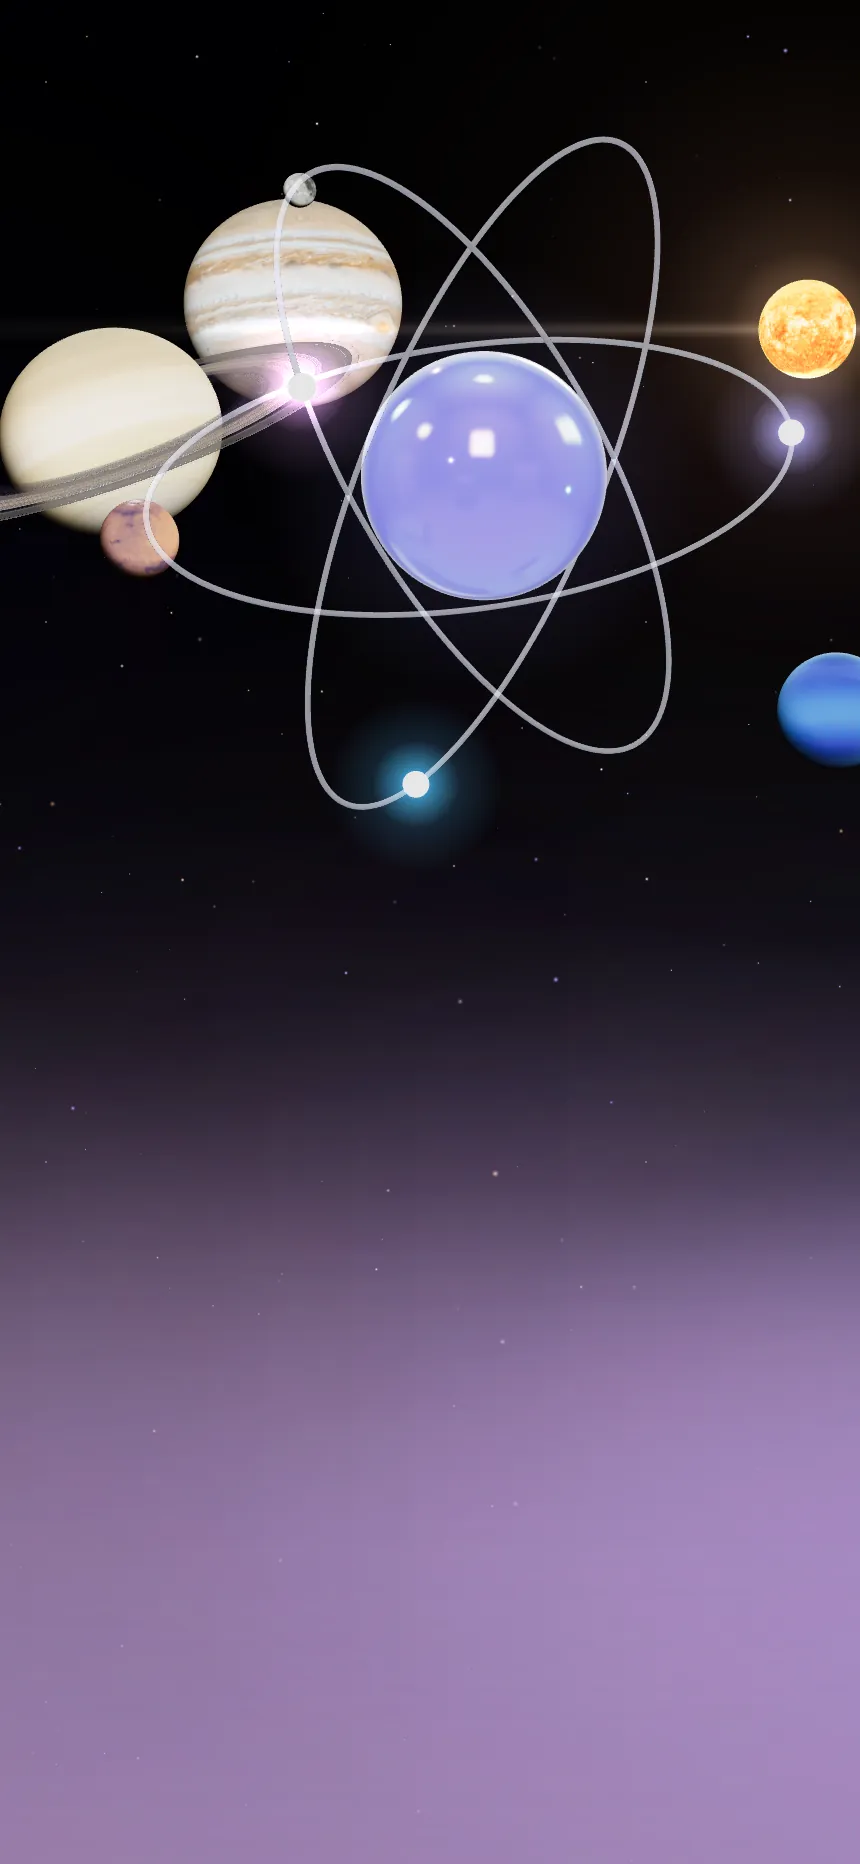
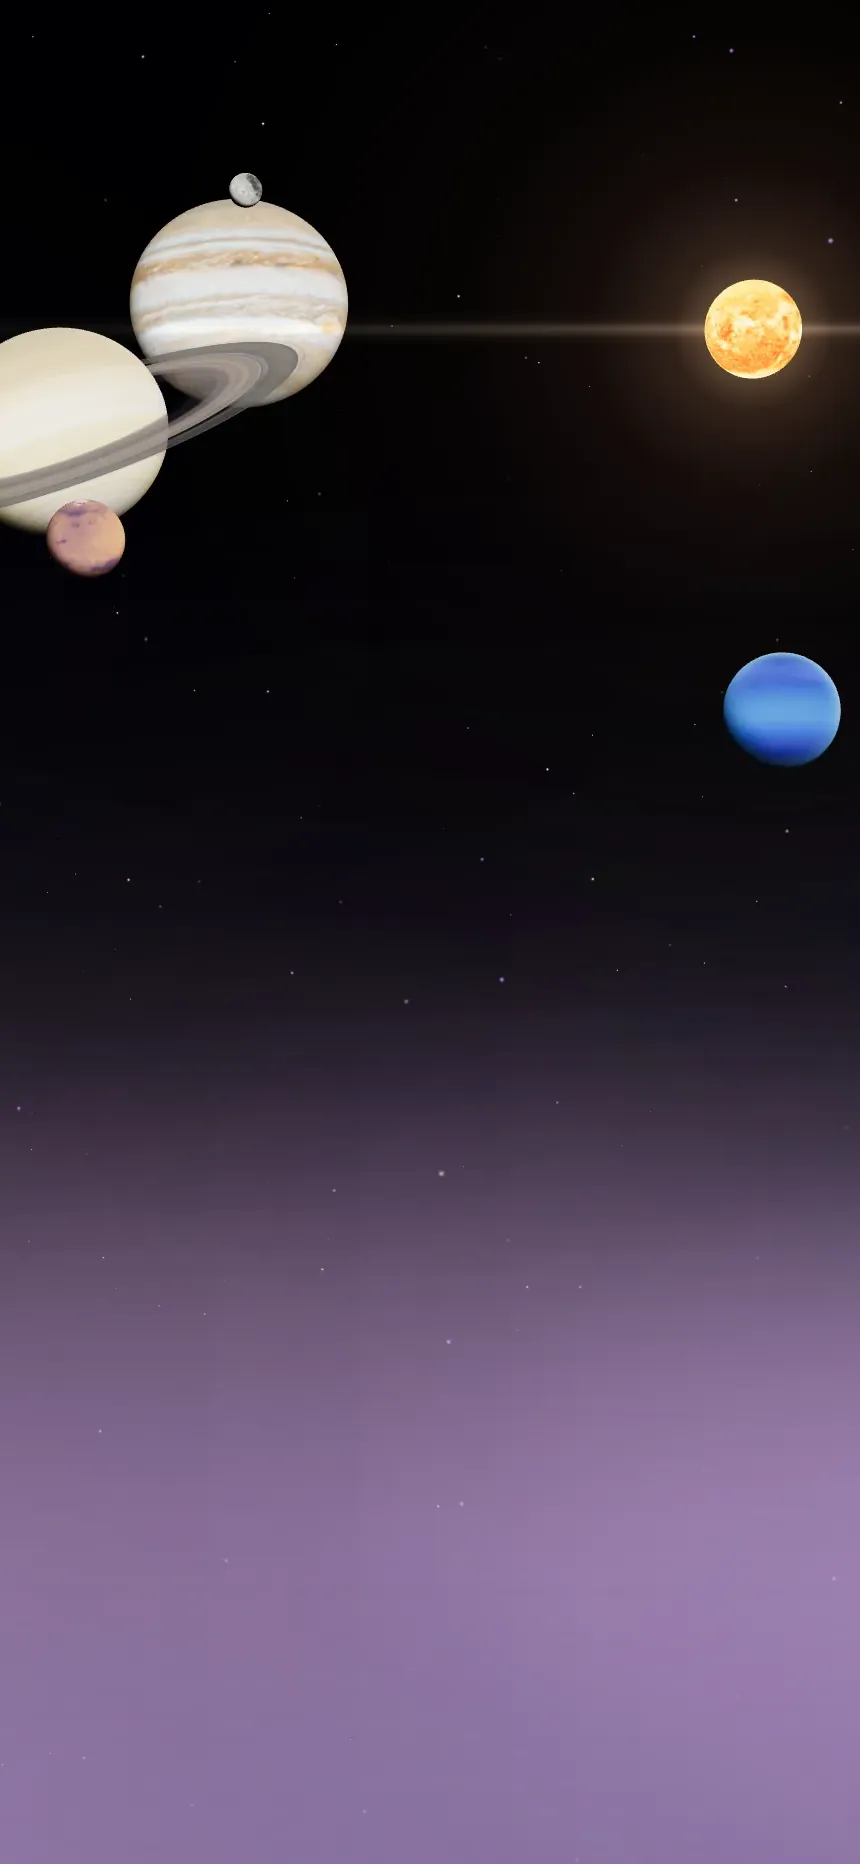
feat: calm 3D hero under reduced motion, SVG atom for weak devices
- Reduced motion with working WebGL: the real 3D hero runs in calm mode
  (half speed; no fly-in, pointer lean, scroll camera or meteors). The
  Earth stays a still under reduced motion.
- Weak devices (lowfx) and no WebGL: the hero poster is now captured
  without the atom (?poster=hero&atom=0) and a lightweight SVG atom
  (SMIL, no WebGL, no blur) orbits on top of it at the exact spot the 3D
  atom was, at half speed with reduced motion. It pauses while hidden.

Changed region(s): [[0.0, 0.0622, 1.0, 0.4667], [0.8465, 0.3423, 1.0, 0.4356], [0.6349, 0.0622, 0.7558, 0.0933]]

diff --git a/src/components/home/PosterAtom.tsx b/src/components/home/PosterAtom.tsx
@@ -1,0 +1,112 @@
+'use client';
+
+import { useEffect, useRef, useState } from 'react';
+
+/**
+ * The Atomvs atom drawn over the hero's static poster (the posters are captured without it, with
+ * `?poster=hero&atom=0`). This is what weak devices (html.lowfx) and browsers without WebGL see, and
+ * the stand-in while the 3D scene starts. Plain SVG animated with SMIL: no WebGL, no blur filters,
+ * a few small shapes to repaint. Electrons orbit and the atom turns slowly; with reduced motion both
+ * run at half speed. It pauses while hidden behind the running 3D scene or scrolled off screen.
+ *
+ * Units: 100 = the orbit's long radius. Proportions follow the 3D atom in SpaceScene.tsx
+ * (orbit 2.6 × 0.95, nucleus 0.9, electron 0.1, orbits turned 0°, 60°, 120°).
+ */
+
+const ORBITS = [
+  { angle: 0, color: '#9ea3ff', period: 7 },
+  { angle: 60, color: '#47c5fb', period: 5.6 },
+  { angle: 120, color: '#f0abfc', period: 4.7 },
+];
+const RY = 36.5;
+const ORBIT_PATH = `M 100 0 A 100 ${RY} 0 1 1 -100 0 A 100 ${RY} 0 1 1 100 0`;
+
+export function PosterAtom() {
+  const svg = useRef<SVGSVGElement>(null);
+  // Animations mount after hydration, at the speed this viewer prefers.
+  const [speed, setSpeed] = useState<number | null>(null);
+
+  useEffect(() => {
+    const query = window.matchMedia('(prefers-reduced-motion: reduce)');
+    const update = () => setSpeed(query.matches ? 0.5 : 1);
+    update();
+    query.addEventListener('change', update);
+    return () => query.removeEventListener('change', update);
+  }, []);
+
+  // Pause while the live 3D scene covers the poster (.space-hero.is-live) or the hero is off screen.
+  useEffect(() => {
+    const el = svg.current;
+    const hero = el?.closest('.space-hero');
+    if (!el || !hero || speed === null) return;
+    let onScreen = true;
+    const sync = () => {
+      const run = onScreen && !hero.classList.contains('is-live');
+      if (run) el.unpauseAnimations();
+      else el.pauseAnimations();
+    };
+    const io = new IntersectionObserver(([e]) => {
+      onScreen = e.isIntersecting;
+      sync();
+    });
+    const mo = new MutationObserver(sync);
+    io.observe(el);
+    mo.observe(hero, { attributes: true, attributeFilter: ['class'] });
+    sync();
+    return () => {
+      io.disconnect();
+      mo.disconnect();
+    };
+  }, [speed]);
+
+  const s = speed ?? 1;
+  return (
+    <svg ref={svg} className="poster-atom" viewBox="-125 -125 250 250" aria-hidden="true">
+      <defs>
+        <radialGradient id="pa-nucleus" cx="50%" cy="50%" r="50%" fx="36%" fy="30%">
+          <stop offset="0" stopColor="#ffffff" stopOpacity=".95" />
+          <stop offset=".3" stopColor="#d3d4ff" />
+          <stop offset=".75" stopColor="#959bff" />
+          <stop offset="1" stopColor="#7278ea" />
+        </radialGradient>
+        <radialGradient id="pa-glow">
+          <stop offset="0" stopColor="#8b91ff" stopOpacity=".55" />
+          <stop offset="1" stopColor="#8b91ff" stopOpacity="0" />
+        </radialGradient>
+        {ORBITS.map((o) => (
+          <radialGradient key={o.color} id={`pa-e-${o.angle}`}>
+            <stop offset="0" stopColor="#ffffff" />
+            <stop offset=".3" stopColor={o.color} stopOpacity=".8" />
+            <stop offset="1" stopColor={o.color} stopOpacity="0" />
+          </radialGradient>
+        ))}
+      </defs>
+
+      <circle r="78" fill="url(#pa-glow)">
+        {speed !== null && <animate attributeName="opacity" values=".75;1;.75" dur={`${3 / s}s`} repeatCount="indefinite" />}
+      </circle>
+
+      <g>
+        {speed !== null && (
+          <animateTransform key={`turn-${s}`} attributeName="transform" type="rotate" from="0" to="360" dur={`${80 / s}s`} repeatCount="indefinite" />
+        )}
+        {ORBITS.map((o, i) => (
+          <g key={o.angle} transform={`rotate(${o.angle})`}>
+            <path d={ORBIT_PATH} fill="none" stroke="rgba(212,214,255,.62)" strokeWidth="1.8" />
+            {/* animateMotion places the electron on the orbit; before it starts it sits behind the nucleus. */}
+            <g>
+              <circle r="12" fill={`url(#pa-e-${o.angle})`} />
+              <circle r="3.8" fill="#fff" />
+              {speed !== null && (
+                <animateMotion key={`e-${s}`} path={ORBIT_PATH} dur={`${o.period / s}s`} begin={`-${(o.period / s) * (i / 3)}s`} repeatCount="indefinite" />
+              )}
+            </g>
+          </g>
+        ))}
+      </g>
+
+      <circle r="34.6" fill="url(#pa-nucleus)" />
+      <ellipse cx="-11" cy="-14" rx="9" ry="5.5" fill="#fff" opacity=".55" transform="rotate(-30 -11 -14)" />
+    </svg>
+  );
+}

diff --git a/src/components/home/SpaceScene.tsx b/src/components/home/SpaceScene.tsx
@@ -29,11 +29,11 @@ import { loadThree, threeAllowed } from './threeLoader';
  *
  * - three.js loads on demand, after first paint; the canvas fades in once ready.
  * - Renders only while on screen and the tab is visible; pixel ratio capped at 1.5.
- * - Weak devices (html.lowfx), prefers-reduced-motion at load, no WebGL and failures show the
- *   static poster (three.js is not even downloaded then, see threeLoader.ts); a speed guard
- *   degrades, then falls back to it. `?fx=full` disables the guard for testing.
- * - Reduced motion switched on while the scene runs: gentle motion only (orbits, twinkle, slow
- *   spin); no fly-in, camera movement or meteors.
+ * - Weak devices (html.lowfx), no WebGL and failures show the static poster with a lightweight SVG
+ *   atom on it (PosterAtom.tsx; three.js is not even downloaded then, see threeLoader.ts); a speed
+ *   guard degrades, then falls back to it. `?fx=full` disables the guard for testing.
+ * - prefers-reduced-motion: calm mode. The atom turns, the electrons orbit, the planets drift, all at
+ *   half speed; no fly-in, pointer lean, scroll camera or meteors.
  * - WebGL context lost (GPU reset, out of video memory): the poster comes back; if the browser
  *   restores the context, the scene resumes.
  */
@@ -484,10 +484,12 @@ export function SpaceScene() {
 
       // ── Motion ────────────────────────────────────────────────────────────
       const reduceQuery = window.matchMedia('(prefers-reduced-motion: reduce)');
-      // posterMode draws one still frame. Reduced motion keeps the scene alive but gentle: no
-      // fly-in, no camera movement on scroll or pointer, no meteors (vestibular triggers removed).
+      // posterMode draws one still frame. Reduced motion runs the scene in calm mode: no fly-in, no
+      // camera movement on scroll or pointer, no meteors (vestibular triggers removed), and the rest
+      // (atom turn, electrons, planets, twinkle, fog) at half speed.
       const reduced = posterMode;
       let gentle = reduceQuery.matches;
+      const CALM = 0.5;
       const forceFull = new URLSearchParams(window.location.search).get('fx') === 'full';
       let time = 0;
       let stopped = false;
@@ -500,7 +502,7 @@ export function SpaceScene() {
       const target = new THREE.Vector3();
 
       const draw = (t: number, live: boolean) => {
-        const dt = live ? 1 / 60 : 0;
+        const dt = live ? (gentle ? CALM : 1) / 60 : 0;
         const scroll = live && !gentle ? Math.min(1, window.scrollY / window.innerHeight) : 0;
         if (live && !gentle) {
           lean.x += (pointer.x - lean.x) * 0.04;
@@ -614,7 +616,7 @@ export function SpaceScene() {
         raf = 0;
         if (disposed || stopped || contextLost || reduced || !onScreen || document.hidden) return;
         const frameMs = now - last;
-        time += Math.min(frameMs, 50) / 1000;
+        time += (Math.min(frameMs, 50) / 1000) * (gentle ? CALM : 1);
         last = now;
         draw(time, true);
         if (!forceFull && perf.level < 2 && now - perf.started > 3000) {
@@ -800,8 +802,15 @@ export function SpaceScene() {
         if (reduced) draw(STILL_T, false);
       })();
       if (posterMode) {
+        // `&atom=0` leaves the atom out: the posters carry a lightweight SVG atom on top instead
+        // (PosterAtom.tsx), placed where this frame would draw it (data-poster-atom).
+        if (new URLSearchParams(window.location.search).get('atom') === '0') atom.visible = false;
         void upgraded.then(() => {
           draw(STILL_T, false);
+          const c = new THREE.Vector3().setFromMatrixPosition(atom.matrixWorld).project(camera);
+          const edge = new THREE.Vector3(RX * atom.scale.x, 0, 0).add(atom.position).project(camera);
+          html.dataset.posterAtom = JSON.stringify({ x: (c.x + 1) * 50, y: (1 - c.y) * 50, rx: (edge.x - c.x) * 50 });
+          html.dataset.posterPng = canvas.toDataURL('image/png');
           html.dataset.posterReady = '1';
         });
       }

diff --git a/src/app/home.css b/src/app/home.css
@@ -25,11 +25,24 @@
 /* Poster: a captured still of the scene (public/posters). It fades in by itself after ~3 s, so
    a slow or failing start never leaves the hero black; a running scene (.is-live) hides it. */
 .space-poster {
-  position: absolute; inset: 0; z-index: -2; pointer-events: none; opacity: 0;
-  background: url(/posters/hero-desktop.webp) center bottom / cover no-repeat;
+  position: absolute; inset: 0; z-index: -2; pointer-events: none; opacity: 0; overflow: hidden; container-type: size;
   animation: poster-in .8s ease 3s forwards;
 }
-@media (max-aspect-ratio: 9/10) { .space-poster { background-image: url(/posters/hero-mobile.webp); } }
+/* The poster image is laid out like `cover`, anchored at the bottom, as a real box (in container
+   units) so the SVG atom can sit at the exact spot the 3D frame put it (SpaceScene, data-poster-atom). */
+.space-poster-frame {
+  position: absolute; left: 50%; bottom: 0; translate: -50% 0; width: max(100cqw, 100cqh * 1920 / 1080); aspect-ratio: 1920 / 1080;
+  background: url(/posters/hero-desktop.webp) center / 100% 100% no-repeat;
+  --atom-x: 50%; --atom-y: 36.37%; --atom-rx: 15.12%;
+}
+@media (max-aspect-ratio: 9/10) {
+  .space-poster-frame {
+    width: max(100cqw, 100cqh * 860 / 1864); aspect-ratio: 860 / 1864; background-image: url(/posters/hero-mobile.webp);
+    --atom-y: 25.56%; --atom-rx: 41.33%;
+  }
+}
+/* viewBox is ±125 for an orbit radius of 100, so the box is 2.5 × the orbit radius. */
+.poster-atom { position: absolute; left: var(--atom-x); top: var(--atom-y); width: calc(var(--atom-rx) * 2.5); aspect-ratio: 1; translate: -50% -50%; overflow: visible; }
 @keyframes poster-in { to { opacity: 1; } }
 .space-hero.is-live .space-poster { animation: none; opacity: 0; transition: opacity .9s ease; }
 .space-hero.poster-on .space-poster, .lowfx .space-poster { animation: none; opacity: 1; transition: opacity .9s ease; }

diff --git a/src/components/home/threeLoader.ts b/src/components/home/threeLoader.ts
@@ -2,19 +2,20 @@
  * One shared three.js download for every 3D scene on the page.
  *
  * three.js is ~190 KB gzipped (~760 KB of JavaScript to parse), so it only loads when a scene will
- * actually run: not on weak devices (html.lowfx, set before first paint in layout.tsx) and not with
- * prefers-reduced-motion. Those viewers get the static posters instead. When it does load, the
- * download starts as soon as this module is evaluated (in parallel with hydration), not when a
- * component mounts.
+ * actually run: not on weak devices (html.lowfx, set before first paint in layout.tsx), which get the
+ * static posters instead. With prefers-reduced-motion the hero still runs, in calm mode
+ * (SpaceScene.tsx); the Earth shows its poster (RingedEarth.tsx). When it does load, the download
+ * starts as soon as this module is evaluated (in parallel with hydration), not when a component mounts.
  */
 
-/** Whether the 3D scenes should run on this device. `?poster=...` (poster capture) always runs them. */
+/** Whether the 3D scenes may run on this device. `?poster=...` (poster capture) always runs them. */
 export function threeAllowed() {
   if (typeof window === 'undefined') return false;
   if (/[?&]poster=/.test(window.location.search)) return true;
-  if (document.documentElement.classList.contains('lowfx')) return false;
-  return !window.matchMedia('(prefers-reduced-motion: reduce)').matches;
+  return !document.documentElement.classList.contains('lowfx');
 }
+
+export const prefersReducedMotion = () => typeof window !== 'undefined' && window.matchMedia('(prefers-reduced-motion: reduce)').matches;
 
 let pending: Promise<[typeof import('three'), typeof import('three/examples/jsm/environments/RoomEnvironment.js')]> | null = null;
 

diff --git a/src/components/home/RingedEarth.tsx b/src/components/home/RingedEarth.tsx
@@ -3,7 +3,7 @@
 import { useEffect, useRef } from 'react';
 import type { Material, Mesh, Texture } from 'three';
 import { ATMO_FRAG, EARTH_FRAG, EARTH_VERT, RING_FRAG, RING_VERT } from './planetShaders';
-import { loadThree, threeAllowed } from './threeLoader';
+import { loadThree, prefersReducedMotion, threeAllowed } from './threeLoader';
 
 /**
  * The closing section's planet: Earth from real 2K satellite maps (public/textures/earth, from
@@ -16,7 +16,7 @@ import { loadThree, threeAllowed } from './threeLoader';
  *   while on screen.
  * - Weak devices (html.lowfx), prefers-reduced-motion at load, no WebGL, maps that fail to load and
  *   a lost WebGL context show the static poster (.planet-stage.poster-on, public/posters/earth-*.webp)
- *   instead; three.js is not downloaded for the first two (threeLoader.ts).
+ *   instead; on weak devices three.js is not downloaded at all (threeLoader.ts).
  * - `?poster=earth` renders one still frame and puts it on <html data-earth-poster> as a PNG data
  *   URL, for capturing public/posters/earth-*.webp (desktop at 2560×1080, mobile at 860×1864).
  */
@@ -29,7 +29,8 @@ export function RingedEarth() {
     const stage = el.closest('.planet-stage');
     const showPoster = (on: boolean) => stage?.classList.toggle('poster-on', on);
     const posterMode = new URLSearchParams(window.location.search).get('poster') === 'earth';
-    if (!threeAllowed()) {
+    // Reduced motion: the Earth stays a still (only the hero runs, in calm mode).
+    if (!threeAllowed() || (!posterMode && prefersReducedMotion())) {
       showPoster(true);
       return;
     }

diff --git a/src/app/page.tsx b/src/app/page.tsx
@@ -8,6 +8,7 @@ import { Screenshot } from '@/components/Screenshot';
 import { LiveDemo } from '@/components/home/LiveDemo';
 import { Bento } from '@/components/home/Bento';
 import { SpaceScene } from '@/components/home/SpaceScene';
+import { PosterAtom } from '@/components/home/PosterAtom';
 import { RingedEarth } from '@/components/home/RingedEarth';
 import { HomeMotion } from '@/components/home/HomeMotion';
 import { Marquee } from '@/components/home/Marquee';
@@ -35,8 +36,11 @@ export default async function Home() {
       {/* ── Hero: a 3D space scene, the headline bottom-left, the pitch bottom-right ── */}
       <section className="space-hero" aria-labelledby="hero-title">
         <div className="space-sky" aria-hidden="true" />
-        {/* A still of the 3D scene: shown on weak devices, without WebGL, or when the scene is slow to start. */}
-        <div className="space-poster" aria-hidden="true" />
+        {/* A still of the 3D scene with a light SVG atom on it: shown on weak devices, without WebGL,
+            or while the scene is slow to start. */}
+        <div className="space-poster" aria-hidden="true">
+          <div className="space-poster-frame"><PosterAtom /></div>
+        </div>
         <SpaceScene />
         <div className="space-fade" aria-hidden="true" />
 
